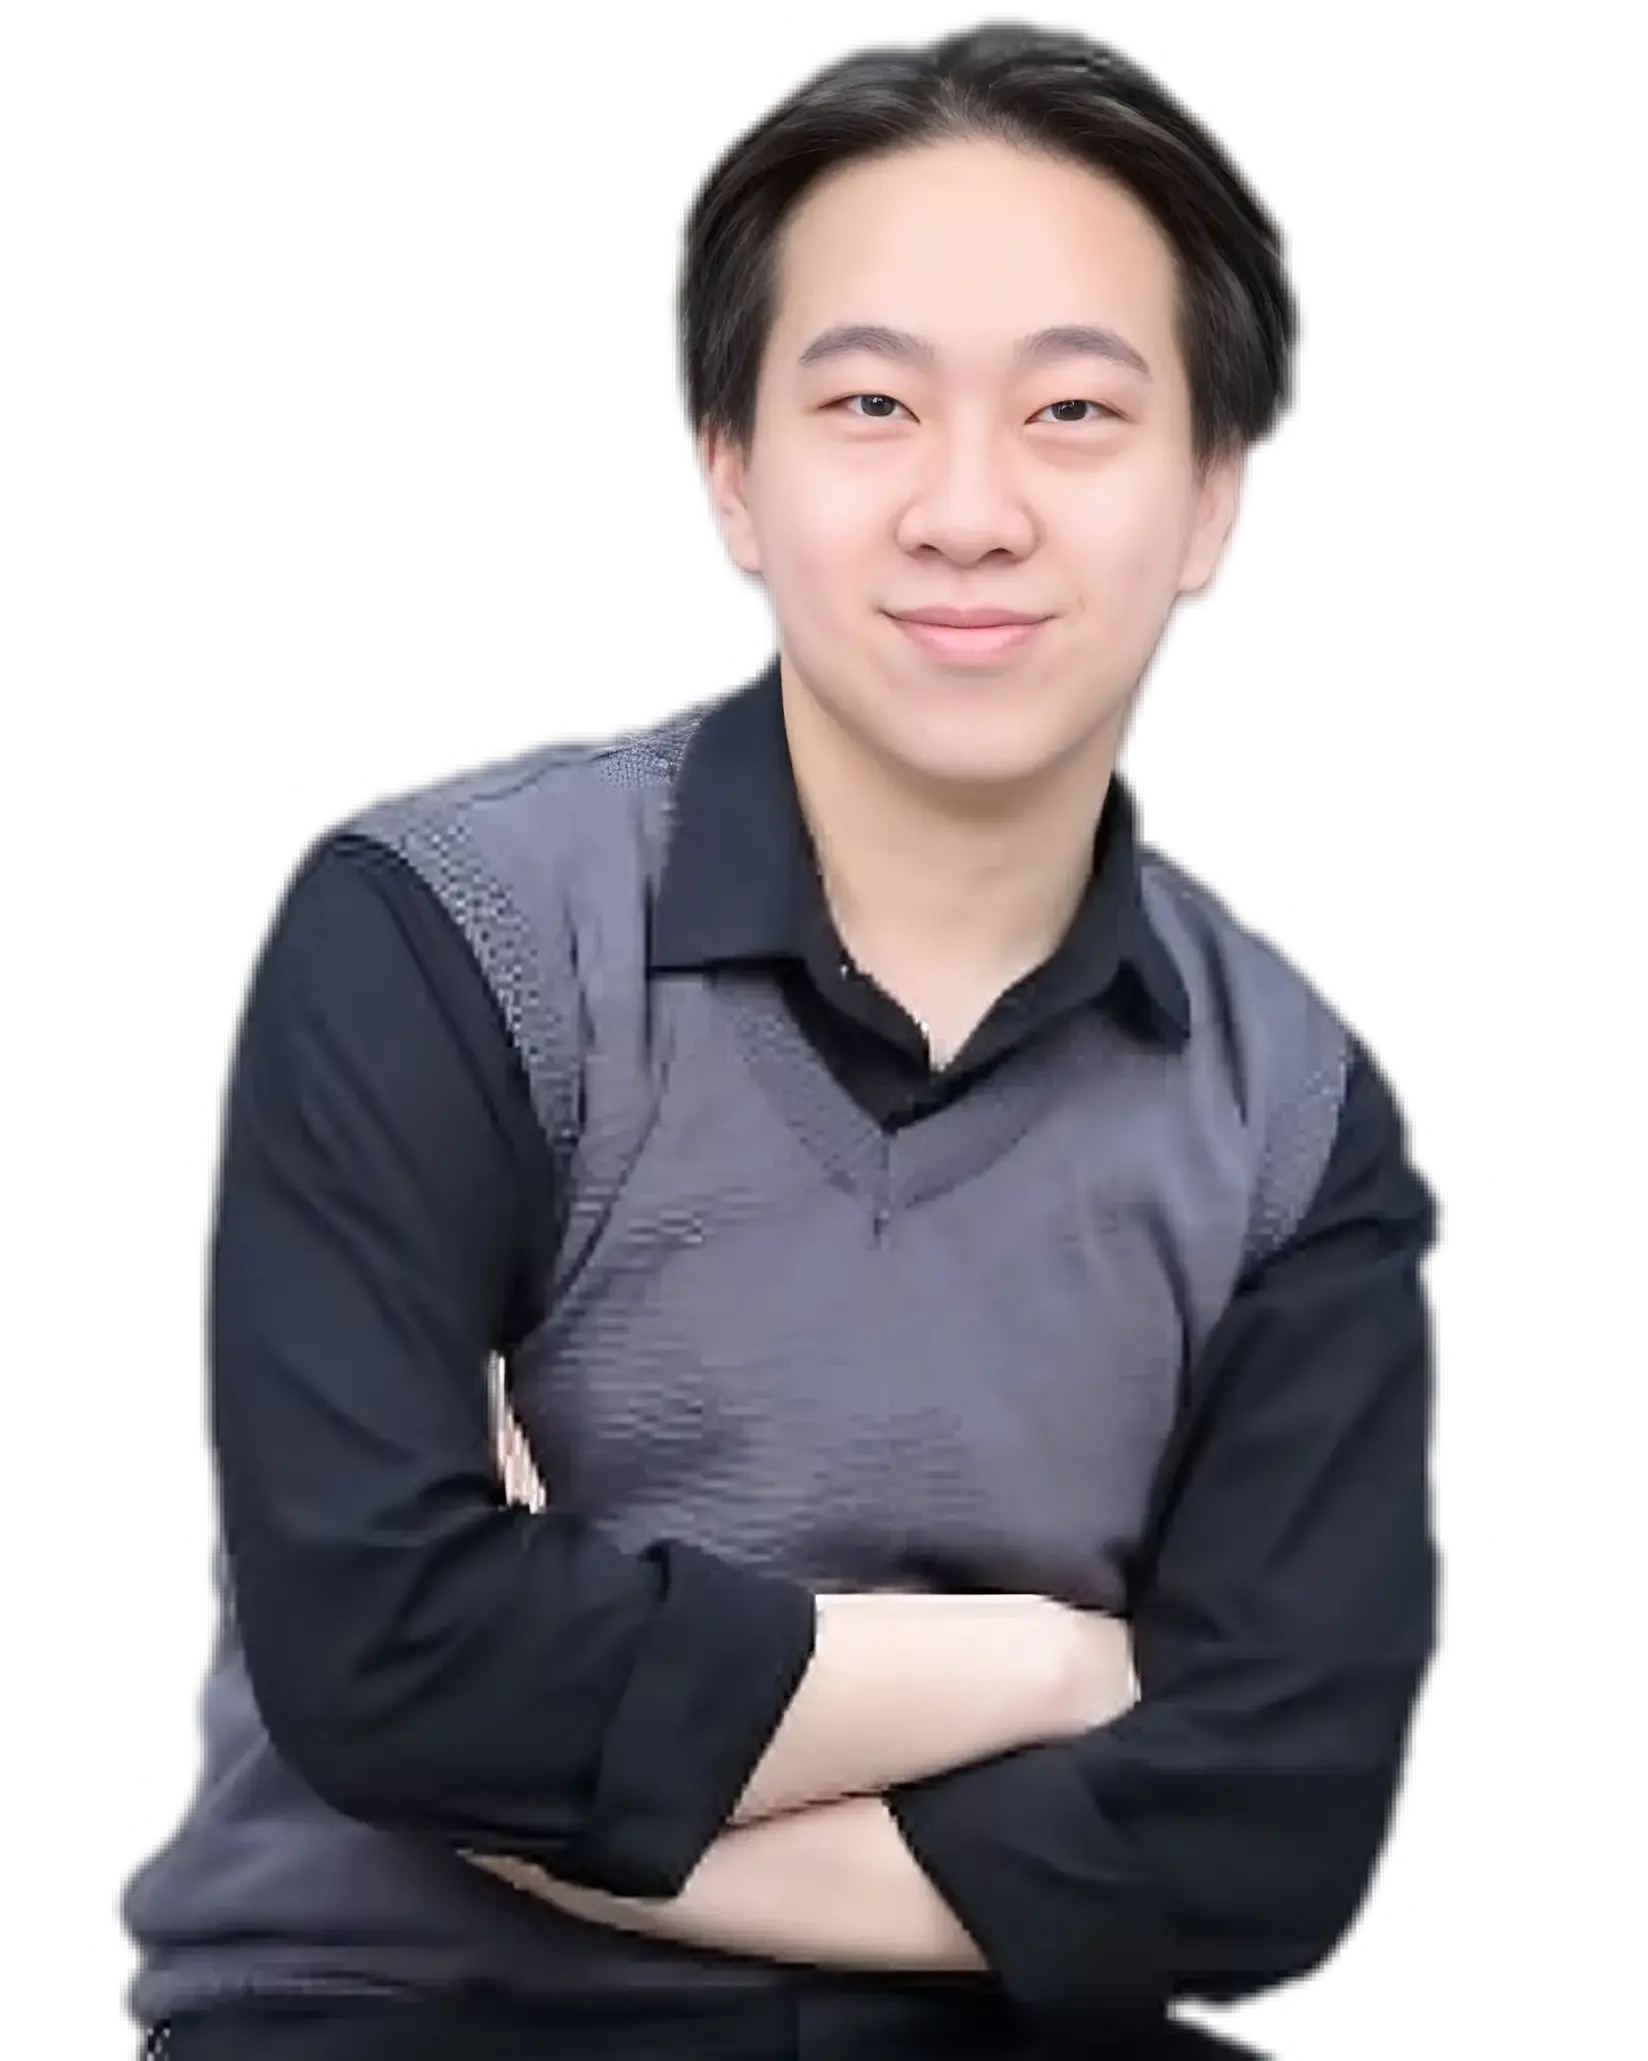
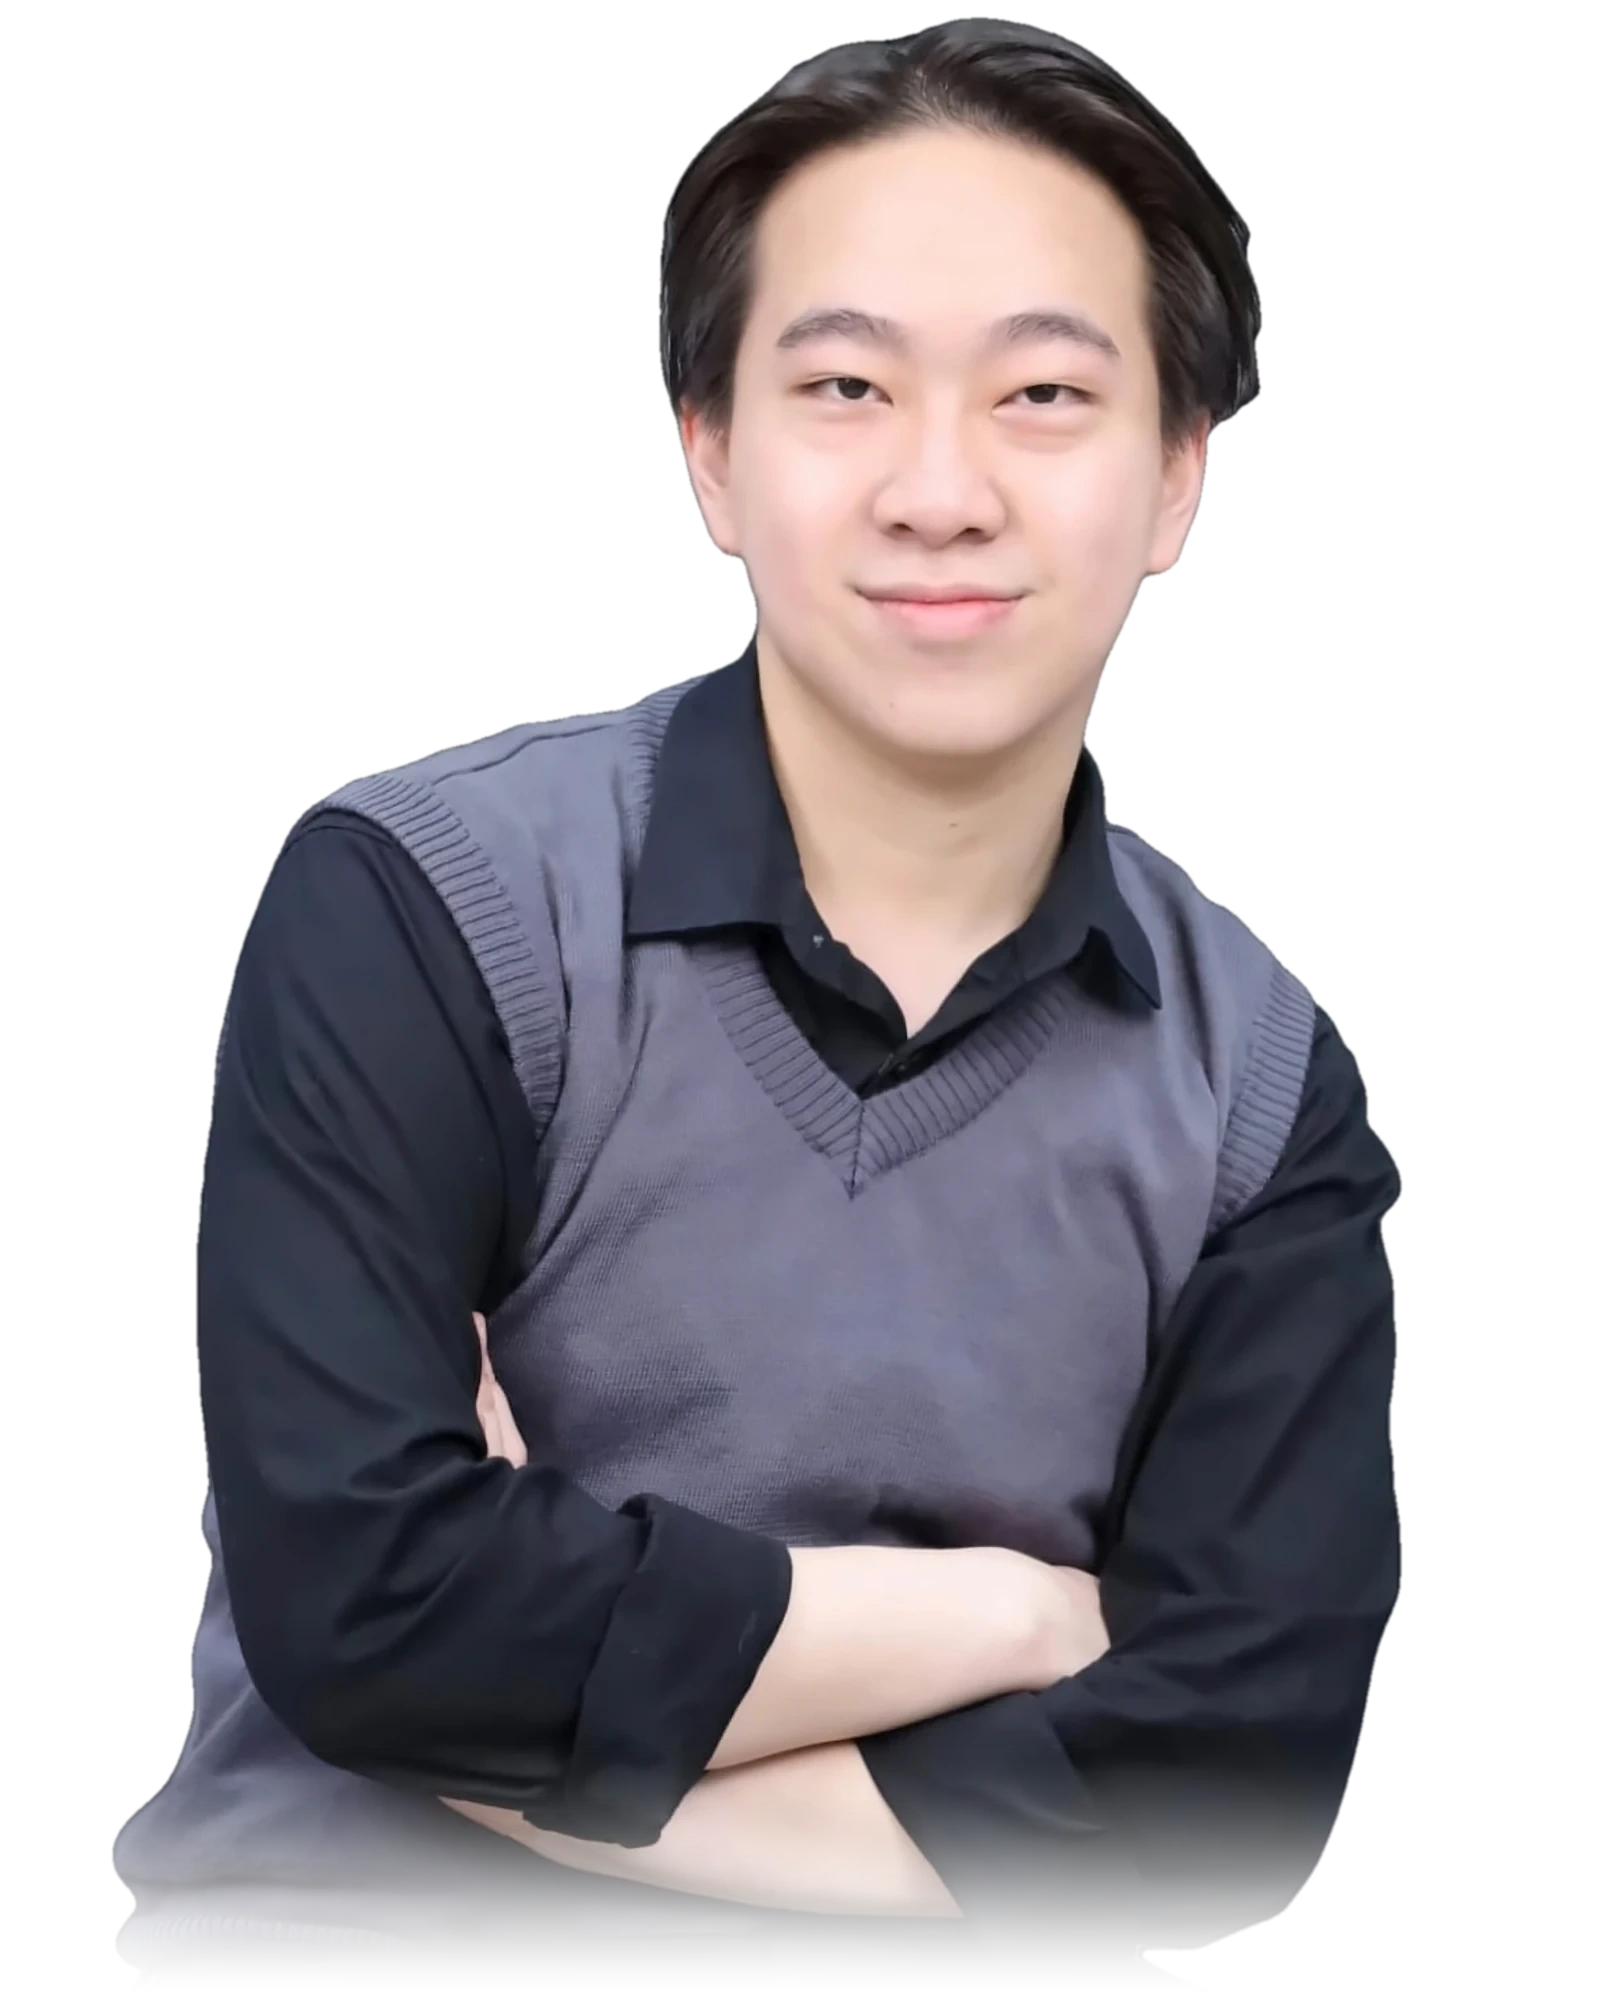
[Steven] - fix person.web use HD

diff --git a/src/app/components/Home/MainSection.tsx b/src/app/components/Home/MainSection.tsx
@@ -108,22 +108,17 @@ export default function MainSection() {
 
 				<div className="order-1 md:order-2 md:col-span-5 flex justify-center">
 					<div className="relative w-full max-w-[320px] h-[320px] md:max-w-none md:h-[540px] animate-fade-up">
-						<svg width="0" height="0" className="absolute" aria-hidden="true">
-							<filter id="avatar-feather" x="-10%" y="-10%" width="120%" height="120%">
-								<feGaussianBlur in="SourceAlpha" stdDeviation="1.6" result="blurredAlpha" />
-								<feComponentTransfer in="blurredAlpha" result="smoothAlpha">
-									<feFuncA type="linear" slope="3.5" intercept="0" />
-								</feComponentTransfer>
-								<feComposite in="SourceGraphic" in2="smoothAlpha" operator="in" />
-							</filter>
-						</svg>
 						<div className="avatar-ring" aria-hidden="true" />
 						<div className="avatar-backdrop" aria-hidden="true" />
 						<Image
 							src="/assets/person.webp"
 							alt={`${siteConfig.name}, ${siteConfig.role}`}
 							fill
-							sizes="(max-width: 768px) 320px, 400px"
+							// The box is 447px wide at the widest desktop layout; the old
+							// 400px under-declared it and let the browser pick a candidate
+							// below the size it actually paints.
+							sizes="(max-width: 768px) 320px, 448px"
+							quality={90}
 							className="relative object-contain avatar-image"
 							priority
 							fetchPriority="high"

diff --git a/src/app/globals.css b/src/app/globals.css
@@ -318,8 +318,14 @@ body::before {
   z-index: 0;
 }
 
+/* Only the drop-shadow. There used to be an SVG `filter: url(#avatar-feather)`
+   here to soften a ragged cutout edge, but referencing an SVG filter forces the
+   element into an offscreen raster that browsers do not reliably scale to the
+   device pixel ratio — on a HiDPI screen the portrait came back visibly soft
+   whatever the source resolution was. The current cutout has clean edges and
+   needs no feathering, and CSS `drop-shadow()` is DPR-aware. */
 .avatar-image {
-  filter: url(#avatar-feather) drop-shadow(0 20px 30px rgba(15, 23, 42, 0.18));
+  filter: drop-shadow(0 20px 30px rgba(15, 23, 42, 0.18));
 }
 
 /* Conic ring behind the portrait. Rotating a masked ring is a single

diff --git a/next.config.ts b/next.config.ts
@@ -3,6 +3,12 @@ import type { NextConfig } from "next";
 const nextConfig: NextConfig = {
   reactStrictMode: true,
   experimental: { inlineCss: true },
+  images: {
+    // The portrait is already a lossy webp, so the default re-encode at 75
+    // stacks a second round of compression on it and mushes the skin
+    // gradients. Any quality the app asks for has to be listed here.
+    qualities: [75, 90],
+  },
 };
 
 export default nextConfig;

diff --git a/src/app/about/page.tsx b/src/app/about/page.tsx
@@ -32,6 +32,7 @@ export default function About() {
 								alt={siteConfig.name}
 								fill
 								sizes="(max-width: 768px) 300px, 340px"
+								quality={90}
 								className="relative object-contain"
 								priority
 								fetchPriority="high"
